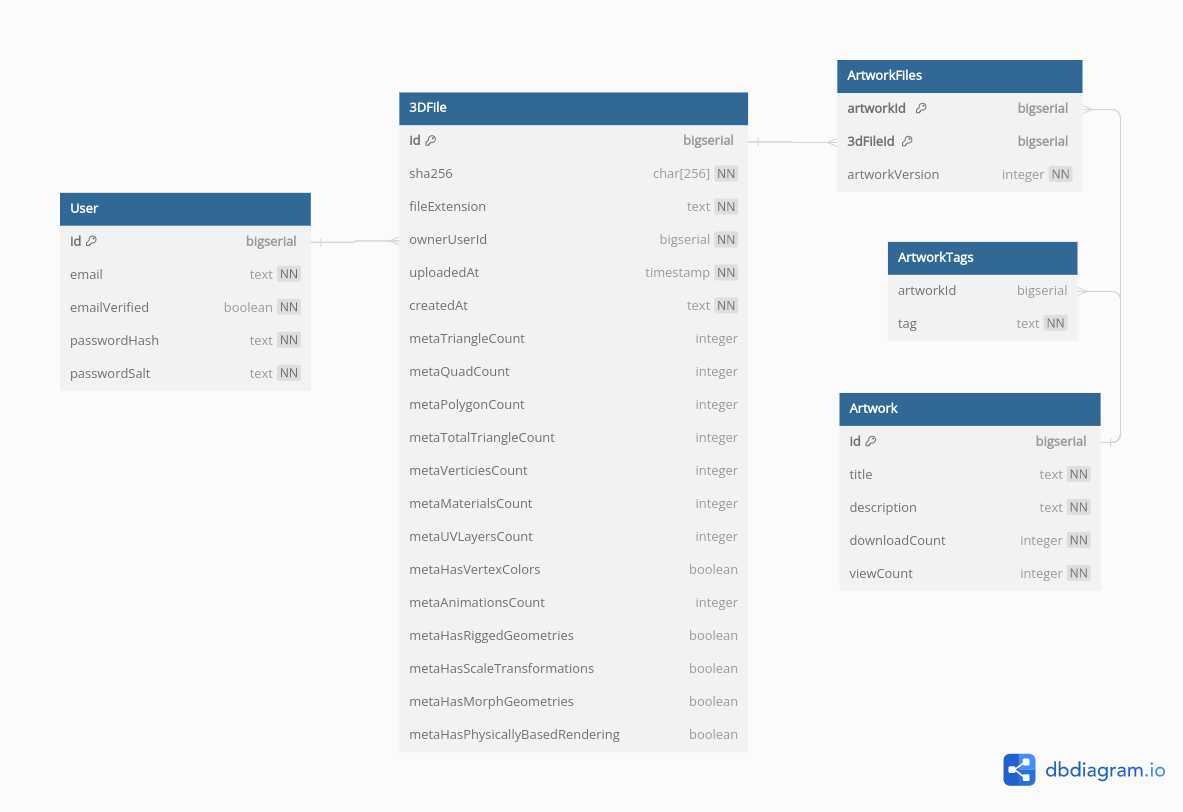
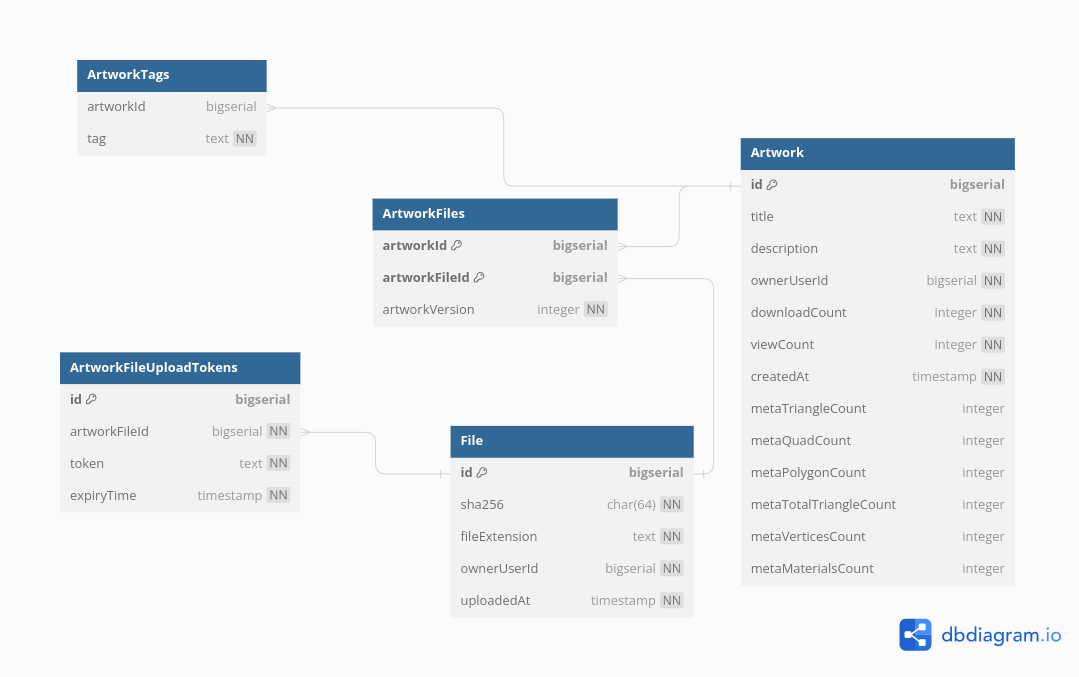
Changed tables

diff --git a/mkdocs/site/developers/database/tables/index.html b/mkdocs/site/developers/database/tables/index.html
@@ -125,65 +125,57 @@
             <div class="section" itemprop="articleBody">
               
                 <h1 id="database-tables">Database Tables</h1>
-<p><strong>These documents reflect the tables early in the design stage and may not be up to date. Use as reference only.</strong></p>
+<p><strong>These documents reflect the tables in the design stage and may not be up to date. Use as reference only.</strong></p>
 <p><img alt="Image" src="../tables.png" /></p>
 <h2 id="dbml">DBML</h2>
 <p>The following is a DBML description of the database, Create a diagram at https://dbdiagram.io/ to view it. </p>
 <pre><code>// Display: https://dbdiagram.io/
 // Docs: https://dbml.dbdiagram.io/docs/
 
-// This table tracks individual users
-Table User {
-  id bigserial [pk]
-  email text [not null, unique]
-  emailVerified boolean [not null, default: false]
-  passwordHash text [not null]
-  passwordSalt text [not null, unique]
-}
 
-
-Table 3DFile {
+Table File {
   id bigserial [pk]
   sha256 char(64) [not null, unique] // Hash of the whole file. Can be translated into a URI.
   fileExtension text [not null] // Used to select the three.js loader
-  ownerUserId bigserial [not null, ref: &gt; User.id]
+  ownerUserId bigserial [not null]
   uploadedAt timestamp [not null]
-  createdAt timestamp
-  metaTriangleCount integer
-  metaQuadCount integer
-  metaPolygonCount integer
-  metaTotalTriangleCount integer
-  metaVerticesCount integer
-  metaMaterialsCount integer
-  metaUVLayersCount integer
-  metaHasVertexColors boolean
-  metaAnimationsCount integer
-  metaHasRiggedGeometries boolean
-  metaHasScaleTransformations boolean
-  metaHasMorphGeometries boolean
-  metaHasPhysicallyBasedRendering boolean
 }
 
 Table Artwork {
   id bigserial [pk]
   title text [not null]
   description text [not null]
+  ownerUserId bigserial [not null]
   downloadCount integer [not null, default: 0]
   viewCount integer [not null, default: 0]
+  createdAt timestamp [not null]
+  metaTriangleCount integer
+  metaQuadCount integer
+  metaPolygonCount integer
+  metaTotalTriangleCount integer
+  metaVerticesCount integer
+  metaMaterialsCount integer
 }
 
 Table ArtworkFiles {
   artworkId bigserial [ref: &gt; Artwork.id]
-  3dFileId bigserial [ref: &gt; 3DFile.id]
+  artworkFileId bigserial [ref: &gt; File.id]
   artworkVersion integer [not null]
   indexes {
-    (artworkId, 3dFileId) [pk]
+    (artworkId, artworkFileId) [pk]
   }
 }
 
 Table ArtworkTags {
   artworkId bigserial [ref: &gt; Artwork.id]
   tag text [not null]
+}
+
+Table ArtworkFileUploadTokens {
+  id bigserial [pk]
+  artworkFileId bigserial [ref: &gt; File.id, not null]
+  token text [not null]
+  expiryTime timestamp [not null]
 }
 </code></pre>
               

diff --git a/mkdocs/site/index.html b/mkdocs/site/index.html
@@ -180,5 +180,5 @@
 
 <!--
 MkDocs version : 1.4.2
-Build Date UTC : 2024-03-08 09:46:26.343377+00:00
+Build Date UTC : 2024-03-17 01:34:46.160655+00:00
 -->

diff --git a/mkdocs/docs/developers/database/tables.md b/mkdocs/docs/developers/database/tables.md
@@ -52,9 +52,8 @@ Table ArtworkTags {
 }
 
 Table ArtworkFileUploadTokens {
-  id bigserial [pk]
+  id text [pk]
   artworkFileId bigserial [ref: > File.id, not null]
   token text [not null]
-  expiryTime timestamp [not null]
 }
 ```
